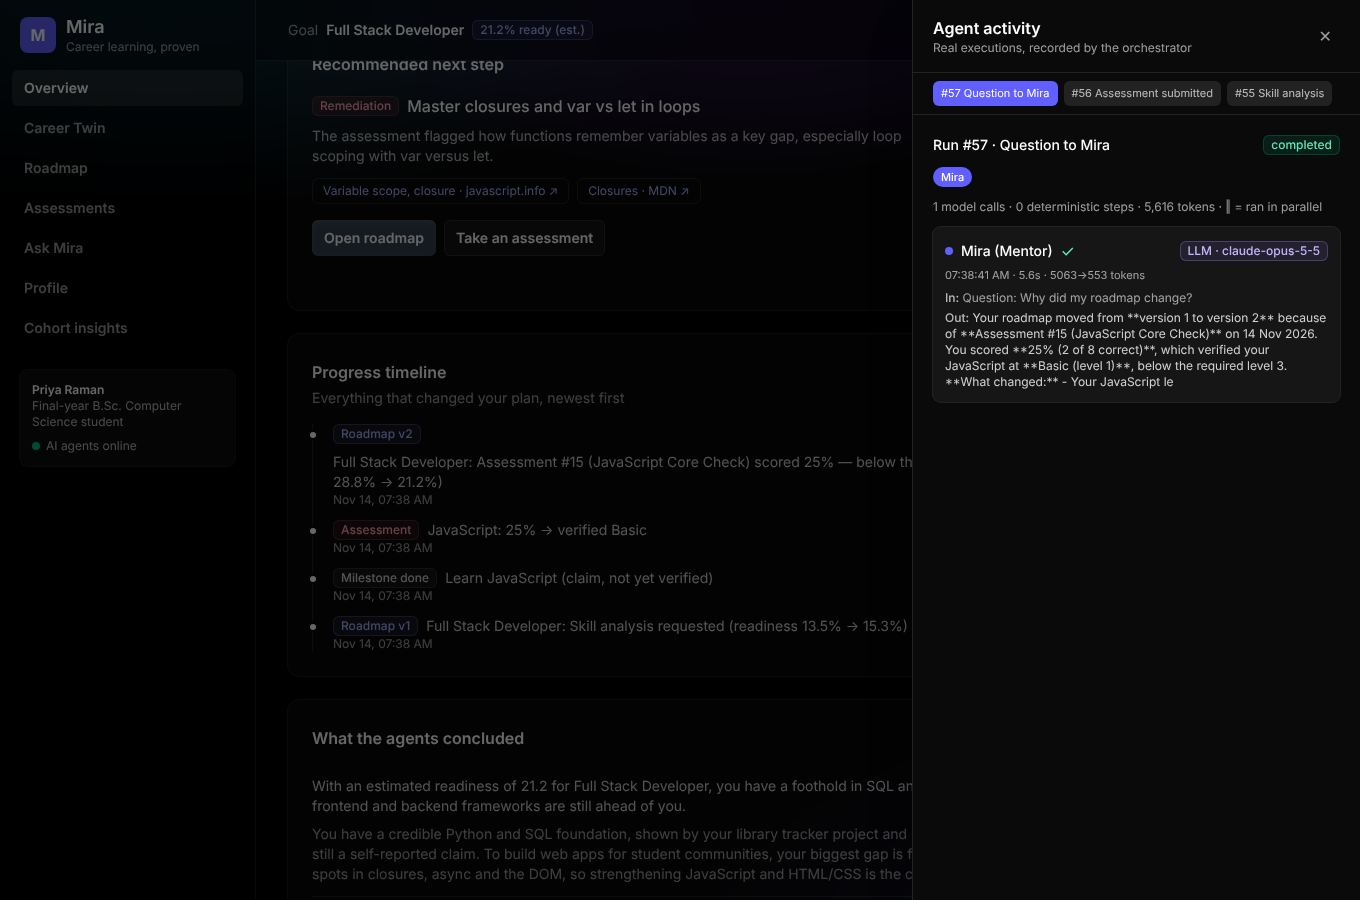
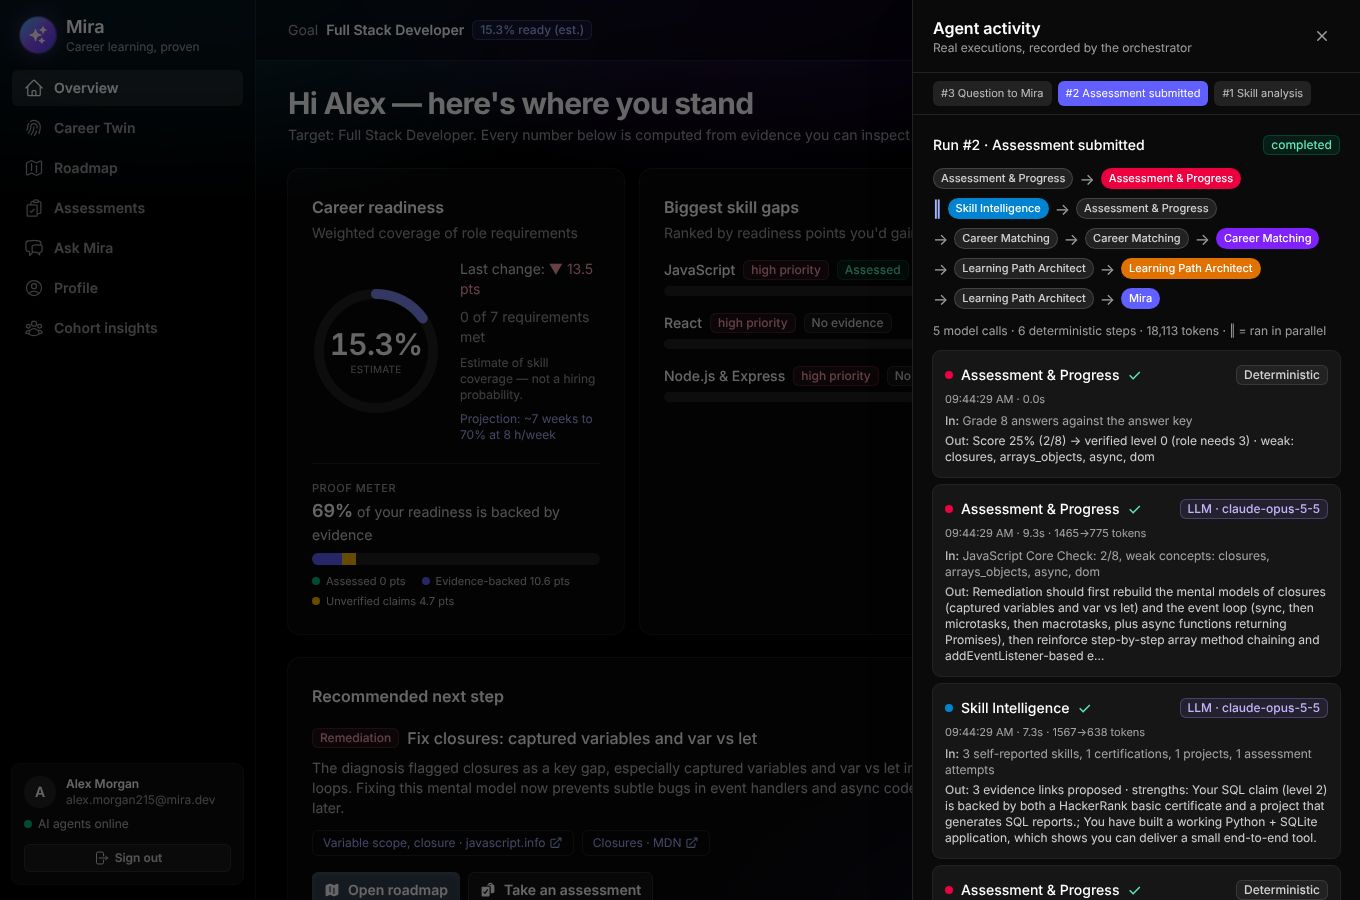
docs: refresh README screenshots from the current UI; update demo numbers
Claude-Session: https://claude.ai/code/session_018jYdgT3xHKchwzjYmyXdZC

diff --git a/README.md b/README.md
@@ -5,7 +5,7 @@
 
 Mira is an AI-powered learning platform that works out a learner's **real** skill level, compares it with a target career, and builds a personalised roadmap. **Five specialised AI agents** collaborate on that roadmap, and it **adapts automatically** when the learner fails an assessment or changes their goal.
 
-![Career Twin after a failed JavaScript assessment: readiness 28.8% → 21.2%, remediation inserted](docs/screenshots/twin.jpg)
+![Career Twin after a failed JavaScript assessment: readiness 28.8% → 15.3%, remediation inserted](docs/screenshots/twin.jpg)
 
 | Overview | Agent activity (real runs) |
 |---|---|
